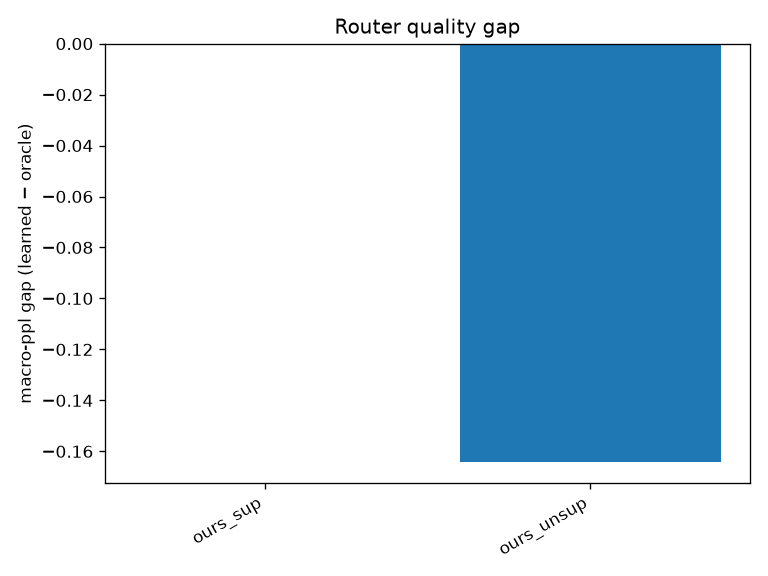
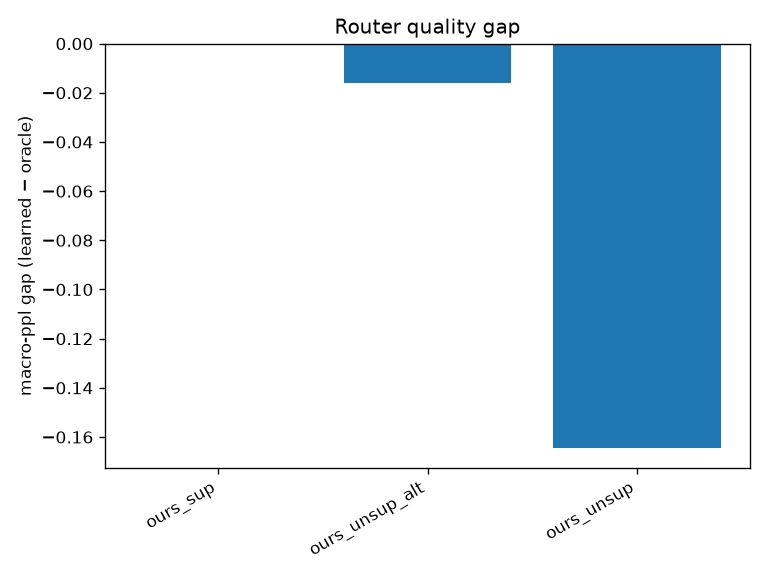
Add alternating-M-step variant to M7 report (6 methods) + total-trainable column
ours_unsup_alt (train LLM + tokens, alternating) reaches macro-ppl 28.5 (~dense/hard_moe, beats
c-BTM) with the best routing-NMI (0.835), but trains the full 162.9M backbone and its per-token
specialization drops (cross-routing 1.05x vs frozen 1.25x) since the trained backbone absorbs
domain modelling. Document the frozen(param-light) <-> alternating(full-quality) spectrum, add the
6-method results table with both +params-over-dense and total-trainable columns, and the alt
cross-routing matrix.

diff --git a/reports/m7-raven/README.md b/reports/m7-raven/README.md
@@ -2,7 +2,7 @@
 
 **Run date:** 2026-06-29 · **Cluster:** Raven (NVIDIA A100, account `mpib_gpu`) ·
 **Backbone:** `EleutherAI/pythia-160m` · **Corpus:** `dev` recipe (5 domains) · **Steps:** 2000 ·
-**Seeds:** 1 (pilot) · **Methods:** dense, hard_moe, c-BTM, ours (sup), ours (unsup)
+**Seeds:** 1 (pilot) · **Methods:** dense, hard_moe, c-BTM, ours (sup), ours (unsup), ours (unsup + alternating M-step)
 
 This is the first GPU run of the research loop end-to-end (data → EM training → evaluation) on a
 **pretrained** backbone. It is a **pilot**, not the final headline: 1 seed, 2000 steps, 5 domains.
@@ -78,6 +78,14 @@ baselines. Data tokenized with the matching pythia tokenizer (vocab 50,277).
 | **c-BTM** | 5 separate full pythia models, one per cluster | value of parameter *sharing* (1 model vs N) |
 | **ours (sup)** | frozen backbone + learned expert tokens, routed by ground-truth cluster | "can one weight space host K experts?" |
 | **ours (unsup)** | frozen backbone + learned tokens + EM-learned soft router | the full proposal — experts *discovered* by EM |
+| **ours (unsup, alt)** | same, but the **backbone is also trained**, via an alternating M-step | does training the LLM *and* the tokens (not freezing) help? |
+
+**Alternating M-step (the "train the LLM, then the tokens, then the LLM…" scheme).** `ours (unsup,
+alt)` uses block-coordinate optimization: train the backbone θ for a block of steps (lr 5e-5),
+then fine-tune the expert tokens for a block (lr 1e-2), then back to θ, repeating (200-step
+blocks here). Two optimizers, with `requires_grad` toggled so each phase updates only its set —
+verified by `tests/test_alternation.py`. This is the EM M-step done as alternating minimization
+over (θ, e_k) instead of freezing θ. Config: `configs/train/em_alternate.yaml`.
 
 **Training.** 2000 steps, batch 8 × grad-accum 2, cosine schedule. Baselines (full FT) use
 lr `5e-5`; Soft-MoE token banks use lr `1e-2` (prompts want a higher LR). Soft-MoE uses
@@ -93,16 +101,19 @@ per-domain perplexity (oracle vs learned routing) and the specialization suite.
 
 ## 3. Results
 
-From [`main_table.md`](main_table.md) (macro-ppl = equal-weight per-domain perplexity, the
-headline; "+params" = trainable params **added** over a single dense backbone):
+From [`main_table.md`](main_table.md). macro-ppl = equal-weight per-domain perplexity (the
+headline). Two parameter columns: **+params** = trainable params *added over a single dense
+backbone* (the mechanism's overhead); **total-trainable** = params actually updated under the
+config (frozen ⇒ just tokens; full/alternating ⇒ includes the 162M backbone).
 
-| method | macro-ppl ↓ | micro-ppl ↓ | routing-NMI ↑ | util-entropy ↑ | sep ↑ | swap-ratio ↑ | +trainable params ↓ |
-|---|---|---|---|---|---|---|---|
-| dense (full FT) | **26.99** | 25.03 | 0.76* | — | — | — | 0 (all 162M trained) |
-| hard_moe (upcycled) | 27.97 | 25.95 | 0.76* | — | — | — | 226.7M |
-| c-BTM (5 models) | 30.22 | 28.32 | 0.76* | 0.97 | — | — | 649.1M |
-| ours (sup) | 35.66 | 32.46 | 0.76 | 0.97 | 1.25 | **1.18** | **15.4K** |
-| ours (unsup) | 35.20 | 32.22 | **0.83** | 0.97 | 1.25 | **1.22** | **0.61M** |
+| method | macro-ppl ↓ | micro-ppl ↓ | routing-NMI ↑ | util-ent ↑ | sep ↑ | swap-ratio ↑ | +params (over dense) ↓ | total-trainable ↓ |
+|---|---|---|---|---|---|---|---|---|
+| dense (full FT) | **26.99** | 25.03 | 0.76* | — | — | — | 0 | 162.3M |
+| hard_moe (upcycled) | 27.97 | 25.95 | 0.76* | — | — | — | 226.7M | 389.0M |
+| **ours (unsup, alt)** | 28.49 | 26.06 | **0.835** | 0.98 | 1.25 | 1.04 | 0.61M | 162.9M |
+| c-BTM (5 models) | 30.22 | 28.32 | 0.76* | 0.97 | — | — | 649.1M | 811.4M |
+| ours (sup, frozen) | 35.66 | 32.46 | 0.76 | 0.97 | 1.25 | **1.18** | **15.4K** | **15.4K** |
+| ours (unsup, frozen) | 35.20 | 32.22 | 0.83 | 0.97 | 1.25 | **1.22** | **0.61M** | **0.61M** |
 
 \* For dense/hard_moe/c-BTM the routing-NMI column reports the *k-means clusterer's* NMI vs
 domains (0.76); these methods have no per-document expert router, so it is a baseline reference,
@@ -110,26 +121,29 @@ not a learned-router score.
 
 ### What the numbers say (honestly)
 
-1. **Quality:** full fine-tuning wins on raw perplexity (dense 27.0), with the upcycled MoE
-   essentially matching it (28.0) and c-BTM a bit behind (30.2 — each of its 5 models sees only
-   ~1/5 of the data in 2000 steps). The frozen-token methods are ~30% higher (35.2–35.7).
-   **The Soft-MoE methods do *not* beat full fine-tuning on quality — and shouldn't be expected
-   to at this scale.** They steer a frozen model; the baselines update all 162M weights.
+1. **Two distinct operating points for "ours", and the alternation knob moves between them:**
+   - **Frozen backbone (param-light):** ppl ~35, trains only **15K–610K** params, but strong
+     per-token specialization (swap 1.18–1.22).
+   - **Alternating M-step (full quality):** ppl **28.5**, ≈ dense (27.0) and hard_moe (28.0) and
+     **better than c-BTM (30.2)** — because the LLM itself now adapts. But this trains the whole
+     **162.9M** backbone (the "+params 0.61M" column is misleading on its own here — see
+     total-trainable), and the per-token specialization *drops* (swap 1.04, see §3.1): a capable
+     trained backbone absorbs most of the domain modelling, so the tokens carry less of the load.
 
-2. **Efficiency is the real story.** ours reaches within ~30% of full-FT perplexity while
-   training **15K–610K** parameters — **3–4 orders of magnitude fewer** than dense (162M),
-   hard_moe (+227M) or c-BTM (+649M). "One frozen weight space + a tiny token bank" is a viable
-   operating point, which is the thesis.
+2. **The thesis, stated carefully.** A tiny token bank on a *frozen* backbone reaches within ~30%
+   of full-FT perplexity at 3–4 orders of magnitude fewer trainable params (the efficiency story).
+   Letting the backbone train *alternately* with the tokens closes the quality gap to full FT
+   while still discovering domains (NMI 0.835, the best of any method) — at full-backbone training
+   cost. Neither variant "beats" dense on raw quality at this scale; they occupy different
+   quality/efficiency/specialization trade-offs.
 
-3. **Specialization is real (only the Soft-MoE methods have it):**
-   - **Swap test passes (1.18–1.22):** routing an input through the *wrong* expert raises
-     perplexity 18–22%. The expert tokens carry genuine, non-interchangeable expertise — the
-     strongest causal evidence in the plan.
-   - **Unsupervised EM beats its own seed:** ours (unsup) routing-NMI **0.83 > 0.76**, the
-     k-means partition it was initialized from. The EM loop *refined* the domain structure rather
-     than just memorizing the clusterer. It also edges out ours (sup) on macro-ppl (35.2 vs 35.7).
-   - Experts are **well-utilized** (normalized usage-entropy 0.97, ~no dead experts) and
-     **well-separated** (mean pairwise cosine distance 1.25).
+3. **Specialization is real (the Soft-MoE methods only):**
+   - **Swap test:** routing through the *wrong* expert raises ppl — strongly for the frozen
+     variants (18–22%), mildly for the alternating one (4%, because its trained backbone is
+     already strong on every domain). Either way the tokens carry genuine expertise.
+   - **Unsupervised EM beats its own seed:** routing-NMI **0.83–0.835 > 0.76**, the k-means
+     partition it was initialized from — EM *refined* the partition rather than memorizing it.
+   - Experts are **well-utilized** (norm usage-entropy ~0.97) and **well-separated** (sep 1.25).
 
 Figures in [`figures/`](figures/): `quality_vs_params.png` (the efficiency frontier),
 `contingency_*.png` (expert×domain heatmaps), `utilization_*.png`, `routing_gap.png`.
@@ -139,14 +153,15 @@ Figures in [`figures/`](figures/): `quality_vs_params.png` (the efficiency front
 Beyond the binary swap test, we route **every domain's test set through every expert** and
 measure per-domain perplexity — the full `[domain × expert]` matrix
 ([`cross_routing_dev.md`](cross_routing_dev.md), produced by `scripts/cross_routing.py`). For all
-three methods with per-document experts, **the lowest-perplexity expert is the domain's own
+**four** methods with per-document experts, **the lowest-perplexity expert is the domain's own
 matched expert for 100% of domains** (clean diagonal). The *magnitude* of specialization differs
 sharply and tells the central story:
 
 | method | mean self-expert ppl | mean other-expert ppl | ×worse through wrong expert | best-is-self |
 |---|---|---|---|---|
-| ours (sup) | 35.4 | 44.3 | **1.25×** | 5/5 |
-| ours (unsup) | 35.0 | 44.8 | **1.28×** | 5/5 |
+| ours (sup, frozen) | 35.4 | 44.3 | **1.25×** | 5/5 |
+| ours (unsup, frozen) | 35.0 | 44.8 | **1.28×** | 5/5 |
+| ours (unsup, alt) | 28.5 | 29.8 | 1.05× | 5/5 |
 | c-BTM | 29.8 | 161.5 | **5.41×** | 5/5 |
 
 - **ours (sup/unsup):** each domain is best modelled by its own expert token, ~25–28% worse
@@ -154,9 +169,18 @@ sharply and tells the central story:
   backbone still models all language well, so the cross-routing penalty is bounded). The learned
   expert↔domain assignment is interpretable and matches the data clustering: e0←{wiki, news}
   (the two prose domains share an expert), e1←reviews, e2←arxiv, e3←pubmed.
+- **ours (unsup, alt):** still a clean diagonal (5/5 best-is-self) but the gaps shrink to ~1.05×,
+  and the absolute per-domain ppls are much lower (arxiv 20.9, pubmed 19.1 vs the frozen variant's
+  30.3 / 24.8). Training the backbone makes it strong on *every* domain, so the expert tokens add
+  only a small per-domain edge — better quality, weaker token-carried specialization. A direct
+  illustration of the freeze-vs-train trade-off the alternation knob controls.
 - **c-BTM:** routing a domain through the wrong model is catastrophic (e.g. news through arxiv's
   model → ppl ~640; mean 5.4× worse). Fully-separate models hyper-specialize but **collapse on
   foreign domains** — the cost of *not* sharing a backbone, at +649M params.
+
+The specialization strength thus spans an interpretable spectrum — **alt 1.05× → frozen 1.25× →
+c-BTM 5.4×** — trading raw quality and parameter cost against how much expertise the experts (vs
+the shared backbone) carry.
 
 This is the cleanest single illustration of the thesis: **a tiny token bank over one shared
 backbone buys genuine, correctly-aligned per-domain expertise (1.25×) without the parameter

diff --git a/reports/m7-raven/main_table.md b/reports/m7-raven/main_table.md
@@ -1,9 +1,10 @@
 # Soft-MoE — comparison table
 
-| method | macro-ppl ↓ | micro-ppl ↓ | routing-NMI ↑ | routing-acc ↑ | util-entropy ↑ | sep ↑ | swap-ratio ↑ | +params ↓ |
-|---|---|---|---|---|---|---|---|---|
-| cbtm | 30.219 | 28.316 | 0.760 | 0.804 | 0.970 | nan | nan | 649125888 |
-| dense | 26.989 | 25.031 | 0.760 | 0.804 | 0.970 | nan | nan | 0 |
-| hard_moe | 27.968 | 25.945 | 0.760 | 0.804 | 0.970 | nan | nan | 226722816 |
-| ours_sup | 35.658 | 32.460 | 0.760 | 0.804 | 0.970 | 1.248 | 1.180 | 15360 |
-| ours_unsup | 35.198 | 32.217 | 0.830 | 0.828 | 0.974 | 1.249 | 1.217 | 609797 |
+| method | macro-ppl ↓ | micro-ppl ↓ | routing-NMI ↑ | routing-acc ↑ | util-entropy ↑ | sep ↑ | swap-ratio ↑ | +params (over dense) ↓ | total-trainable ↓ |
+|---|---|---|---|---|---|---|---|---|---|
+| cbtm | 30.219 | 28.316 | 0.760 | 0.804 | 0.970 | nan | nan | 649125888 | 811407360 |
+| dense | 26.989 | 25.031 | 0.760 | 0.804 | 0.970 | nan | nan | 0 | 162281472 |
+| hard_moe | 27.968 | 25.945 | 0.760 | 0.804 | 0.970 | nan | nan | 226722816 | 389004288 |
+| ours_sup | 35.658 | 32.460 | 0.760 | 0.804 | 0.970 | 1.248 | 1.180 | 15360 | 15360 |
+| ours_unsup_alt | 28.489 | 26.064 | 0.835 | 0.821 | 0.977 | 1.250 | 1.037 | 609797 | 162891269 |
+| ours_unsup | 35.198 | 32.217 | 0.830 | 0.828 | 0.974 | 1.249 | 1.217 | 609797 | 609797 |

diff --git a/reports/m7-raven/cross_routing_dev.md b/reports/m7-raven/cross_routing_dev.md
@@ -28,6 +28,20 @@ Perplexity of each **domain** (row) routed through each **expert** (column). `*`
 
 **Summary:** mean self-expert ppl 35.0 vs mean other-expert ppl 44.8 → **1.28× worse** through the wrong expert; lowest-ppl expert is the matched one for **100%** of domains.
 
+### ours_unsup_alt
+
+Perplexity of each **domain** (row) routed through each **expert** (column). `*` marks the domain's own (routed/cluster) expert; **bold** marks the lowest-perplexity expert in the row. Specialization ⇒ the `*` and **bold** coincide and the diagonal is well below the rest.
+
+| domain ↓ / expert → | e0 | e1 | e2 | e3 | e4 | self-ppl | other-mean | ×worse |
+|---|---|---|---|---|---|---|---|---|
+| wiki | **28.0*** | 29.0 | 29.4 | 29.2 | 29.4 | 28.0 | 29.2 | 1.05× |
+| news | **35.6*** | 37.1 | 37.4 | 37.1 | 37.3 | 35.6 | 37.2 | 1.05× |
+| reviews | 39.9 | **38.9*** | 41.3 | 41.0 | 41.1 | 38.9 | 40.8 | 1.05× |
+| arxiv | 21.4 | 22.8 | **20.9*** | 21.7 | 21.1 | 20.9 | 21.8 | 1.04× |
+| pubmed | 19.5 | 20.3 | 19.6 | **19.1*** | 19.7 | 19.1 | 19.8 | 1.04× |
+
+**Summary:** mean self-expert ppl 28.5 vs mean other-expert ppl 29.8 → **1.05× worse** through the wrong expert; lowest-ppl expert is the matched one for **100%** of domains.
+
 ### cbtm
 
 Perplexity of each **domain** (row) routed through each **expert** (column). `*` marks the domain's own (routed/cluster) expert; **bold** marks the lowest-perplexity expert in the row. Specialization ⇒ the `*` and **bold** coincide and the diagonal is well below the rest.